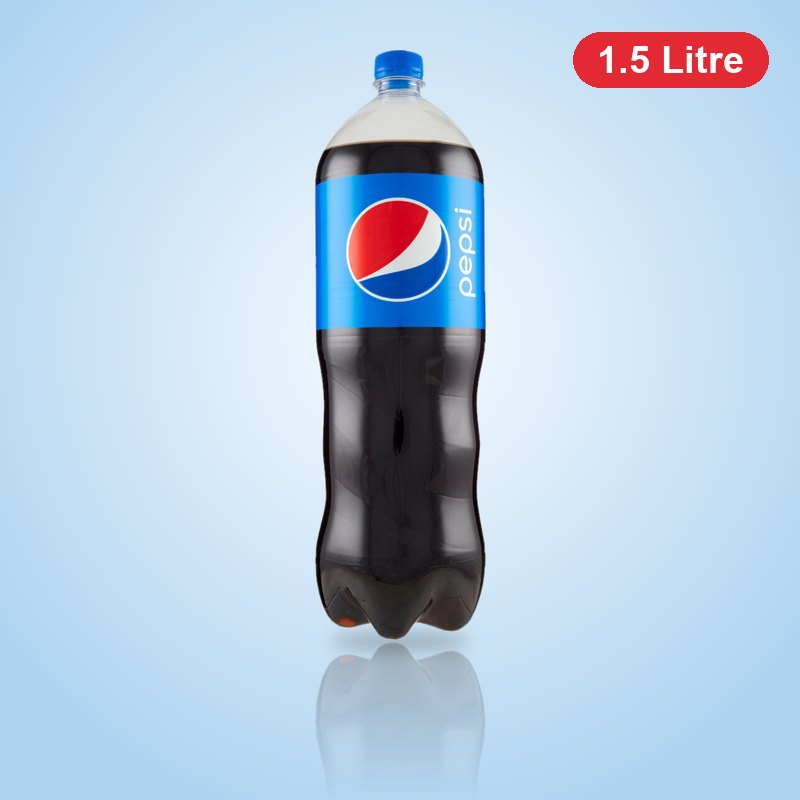
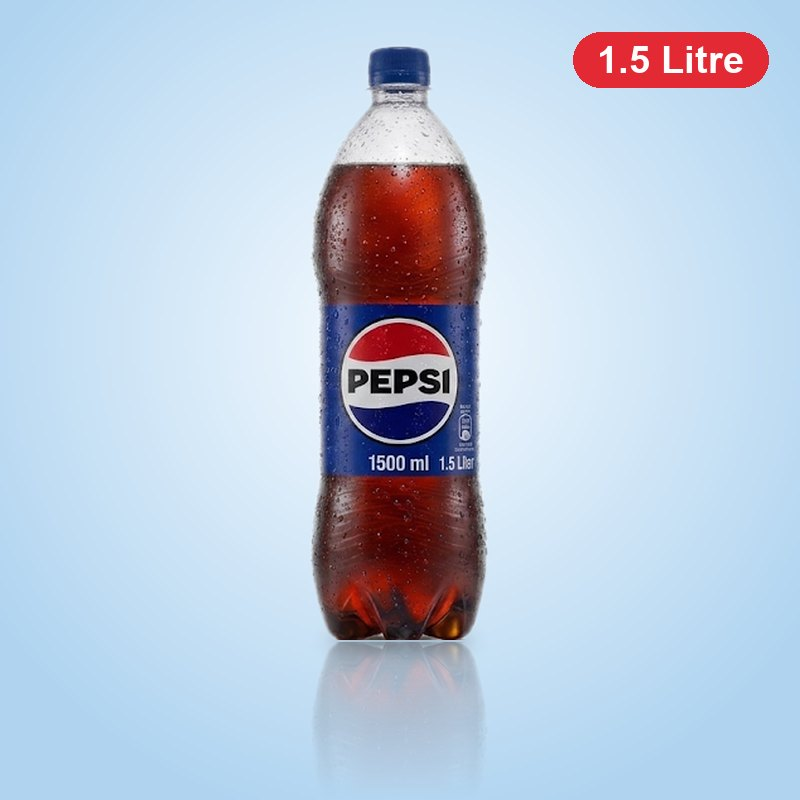
Offline notice, brand order, Pepsi and Dew photos
- Offline banner tells customers they're offline and when they're back; placing an order is
  blocked while offline so it never half-submits
- Shop brand sections follow BRAND_ORDER (Pepsi, 7up, Dew, … water brands last)
- Pepsi (all sizes + TenPacks) and Dew photos from the store owner's studio shots, with SQL to
  link them; Dew gets its own lime studio theme

Changed region(s): [[0.375, 0.0312, 0.625, 0.8438]]

diff --git a/src/pages/ShopPage.jsx b/src/pages/ShopPage.jsx
@@ -5,7 +5,7 @@ import { EmptyState, ErrorState, PageHeader, ProductSkeleton } from '../componen
 import { ProductCard } from '../components/ProductCard'
 import { usePageSeo } from '../hooks/usePageSeo'
 import { categories } from '../lib/catalog'
-import { SORT_OPTIONS } from '../lib/constants'
+import { brandRank, SORT_OPTIONS } from '../lib/constants'
 import { filterProducts, listProducts, sortProducts, subscribeProducts } from '../services/productService'
 
 const emptyFilters = {
@@ -201,7 +201,7 @@ export function ShopPage() {
   }, [attempt])
 
   const brands = useMemo(
-    () => [...new Map(all.map((p) => [String(p.brand || '').trim().toLowerCase(), String(p.brand || '').trim()])).values()].filter(Boolean).sort(),
+    () => [...new Map(all.map((p) => [String(p.brand || '').trim().toLowerCase(), String(p.brand || '').trim()])).values()].filter(Boolean).sort((a, b) => brandRank(a) - brandRank(b) || a.localeCompare(b)),
     [all],
   )
   const sizes = useMemo(() => [...new Set(all.map((p) => p.size).filter(Boolean))], [all])
@@ -215,7 +215,7 @@ export function ShopPage() {
     return sortProducts(filtered, filters.sort)
   }, [all, filters])
 
-  // One section per brand (Pepsi, 7up, Sting…), biggest brands first; the chosen sort applies inside each.
+  // One section per brand in the store's order (BRAND_ORDER); the chosen sort applies inside each.
   const groups = useMemo(() => {
     const map = new Map()
     for (const p of visible) {
@@ -226,7 +226,12 @@ export function ShopPage() {
     }
     return [...map.entries()]
       .map(([key, g]) => ({ ...g, id: `brand-${key.replace(/[^a-z0-9]+/g, '-')}` }))
-      .sort((a, b) => b.items.length - a.items.length || a.brand.localeCompare(b.brand))
+      .sort(
+        (a, b) =>
+          brandRank(a.brand) - brandRank(b.brand) ||
+          b.items.length - a.items.length ||
+          a.brand.localeCompare(b.brand),
+      )
   }, [visible])
 
   return (

diff --git a/src/components/OfflineBanner.jsx b/src/components/OfflineBanner.jsx
@@ -1,0 +1,55 @@
+import { Wifi, WifiOff } from 'lucide-react'
+import { useEffect, useRef, useState } from 'react'
+import { useOnline } from '../hooks/useOnline'
+
+/**
+ * Products, stock and orders all come from the internet, so the store can't work offline.
+ * This tells the customer clearly instead of leaving them with spinners or failed pages,
+ * and says when the connection is back.
+ */
+export function OfflineBanner() {
+  const online = useOnline()
+  const wasOffline = useRef(!online)
+  const [backOnline, setBackOnline] = useState(false)
+
+  useEffect(() => {
+    if (!online) {
+      wasOffline.current = true
+      setBackOnline(false)
+      return
+    }
+    if (!wasOffline.current) return
+    wasOffline.current = false
+    setBackOnline(true)
+    const t = setTimeout(() => setBackOnline(false), 4000)
+    return () => clearTimeout(t)
+  }, [online])
+
+  if (online && !backOnline) return null
+
+  return (
+    <div
+      role="status"
+      aria-live="polite"
+      className="pointer-events-none fixed inset-x-0 bottom-20 z-[70] flex justify-center px-4 md:bottom-6"
+    >
+      <div
+        className={`pointer-events-auto flex max-w-md items-center gap-3 rounded-2xl px-4 py-3 text-sm shadow-lg ${
+          online ? 'bg-emerald-600 text-white' : 'bg-slate-900 text-white'
+        }`}
+      >
+        {online ? <Wifi className="h-5 w-5 shrink-0" /> : <WifiOff className="h-5 w-5 shrink-0" />}
+        {online ? (
+          <p className="font-medium">Wapas online — aap shopping jaari rakh sakte hain.</p>
+        ) : (
+          <div>
+            <p className="font-semibold">Aap offline hain</p>
+            <p className="text-xs text-slate-300">
+              Internet on karein. Aap ka cart mehfooz hai — order internet aane par hi jayega.
+            </p>
+          </div>
+        )}
+      </div>
+    </div>
+  )
+}

diff --git a/src/lib/constants.js b/src/lib/constants.js
@@ -51,6 +51,21 @@ export const PROMO_CODES = {
   WELCOME10: { type: 'percent', value: 10, label: '10% off' },
 }
 
+// Order of brand sections on the Shop page. Brands not listed here go after the soft drinks
+// (before the water brands at the end), largest first.
+export const BRAND_ORDER = ['Pepsi', '7up', 'Dew', 'Mirinda', 'Sting', 'Gormy Cola', 'Quice', 'Slice', 'Bravo']
+export const BRAND_ORDER_LAST = ['Aqua', 'Aquafina']
+
+/** Sort key for a brand name: listed brands in order, unknown ones next, water brands last. */
+export function brandRank(brand) {
+  const key = String(brand || '').trim().toLowerCase()
+  const first = BRAND_ORDER.findIndex((b) => b.toLowerCase() === key)
+  if (first !== -1) return first
+  const last = BRAND_ORDER_LAST.findIndex((b) => b.toLowerCase() === key)
+  if (last !== -1) return 1000 + last
+  return 500
+}
+
 export const DELIVERY_FEE = 149
 export const FREE_DELIVERY_MIN = 2500
 

diff --git a/src/hooks/useOnline.js b/src/hooks/useOnline.js
@@ -1,0 +1,17 @@
+import { useEffect, useState } from 'react'
+
+/** True while the browser has a network connection; updates on `online` / `offline` events. */
+export function useOnline() {
+  const [online, setOnline] = useState(() => (typeof navigator === 'undefined' ? true : navigator.onLine))
+  useEffect(() => {
+    const up = () => setOnline(true)
+    const down = () => setOnline(false)
+    window.addEventListener('online', up)
+    window.addEventListener('offline', down)
+    return () => {
+      window.removeEventListener('online', up)
+      window.removeEventListener('offline', down)
+    }
+  }, [])
+  return online
+}

diff --git a/src/App.jsx b/src/App.jsx
@@ -1,6 +1,7 @@
 import { lazy, Suspense } from 'react'
 import { BrowserRouter, Navigate, Route, Routes } from 'react-router-dom'
 import { Spinner } from './components/Feedback'
+import { OfflineBanner } from './components/OfflineBanner'
 import { RequireAdmin, RequireUser } from './components/Guards'
 import { HomePage } from './pages/HomePage'
 import { AdminLayout } from './layouts/AdminLayout'
@@ -116,6 +117,7 @@ export default function App() {
         <Route path="*" element={<Storefront><NotFoundPage /></Storefront>} />
       </Routes>
       </Suspense>
+      <OfflineBanner />
     </BrowserRouter>
   )
 }

diff --git a/src/pages/PaymentPage.jsx b/src/pages/PaymentPage.jsx
@@ -134,6 +134,10 @@ export function PaymentPage() {
   }
 
   const placeOrder = async () => {
+    if (!navigator.onLine) {
+      push('Aap offline hain. Internet on karke dobara "Place order" dabayein — aap ka cart mehfooz hai.', 'error')
+      return
+    }
     if (summary.unavailable.length) {
       const names = summary.unavailable.map((i) => i.name).join(', ')
       push(`Not enough stock for ${names}. Update your cart to continue.`, 'error')

diff --git a/scripts/make-product-photos.py b/scripts/make-product-photos.py
@@ -27,13 +27,15 @@ FONT = 'C:/Windows/Fonts/arialbd.ttf'
 #   crop   optional (left, top, right, bottom) fractions to trim the photo first
 PRODUCTS = {
     # Pepsi
-    'pepsi-345ml': dict(src='pepsi/can-330ml.jpg', label='345 ml', share=0.62, mode='can'),
-    'pepsi-500ml': dict(src='pepsi/bottle-small.jpg', label='500 ml', share=0.70, tol=40),
-    'pepsi-1l': dict(src='pepsi/bottle-1l.jpg', label='1 Litre', share=0.76, tol=22, crop=(0, 0, 0.94, 1), erode=9),
-    'pepsi-1500ml': dict(src='pepsi/bottle-2l.jpg', label='1.5 Litre', share=0.82, tol=40),
-    'pepsi-2500ml': dict(src='pepsi/bottle-2-5l.jpg', label='2.5 Litre', share=0.86, tol=40),
-    'pepsi-tenpack': dict(src='PACK', pack_of='pepsi/bottle-small.jpg', label='10 × 250 ml', share=0.58, tol=40),
-    'pepsi-tenpack-diet': dict(src='pepsi/pack-diet.jpg', label='Diet · 10 × 250 ml', share=0.62, tol=40),
+    # 345ml–2.5L: studio photos supplied by the store owner, cropped above their floor reflection.
+    'pepsi-345ml': dict(src='pepsi/user-345ml.png', label='345 ml', share=0.62, tol=18, crop=(420 / 1024, 15 / 572, 620 / 1024, 502 / 572)),
+    'pepsi-500ml': dict(src='pepsi/user-500ml.png', label='500 ml', share=0.68, tol=18, crop=(420 / 1024, 15 / 572, 620 / 1024, 502 / 572)),
+    'pepsi-1l': dict(src='pepsi/user-1l.png', label='1 Litre', share=0.76, tol=18, crop=(420 / 1024, 15 / 572, 620 / 1024, 502 / 572)),
+    'pepsi-1500ml': dict(src='pepsi/user-1500ml.png', label='1.5 Litre', share=0.83, tol=18, crop=(420 / 1024, 15 / 572, 620 / 1024, 502 / 572)),
+    'pepsi-2500ml': dict(src='pepsi/user-2500ml.png', label='2.5 Litre', share=0.9, tol=18, crop=(420 / 1024, 15 / 572, 620 / 1024, 502 / 572)),
+    # TenPacks: can studio shots supplied by the store owner, used as-is (centre square).
+    'pepsi-tenpack': dict(src='pepsi/user-can.png', label='10 × 250 ml', mode='photo'),
+    'pepsi-tenpack-diet': dict(src='pepsi/user-can-diet.png', label='Diet · 10 × 250 ml', mode='photo'),
     # 7up
     # 345ml: finished studio shot supplied by the store owner, used as-is (centre square).
     '7up-345ml': dict(src='7up/can-user.png', label='345 ml', mode='photo'),
@@ -42,6 +44,13 @@ PRODUCTS = {
     '7up-1l': dict(src='7up/bottle-1l-user.png', label='1 Litre', share=0.76, tol=18, crop=(420 / 1024, 20 / 572, 620 / 1024, 502 / 572)),
     '7up-1500ml': dict(src='7up/bottle-1l-user.png', label='1.5 Litre', share=0.84, tol=18, crop=(420 / 1024, 20 / 572, 620 / 1024, 502 / 572)),
     '7up-2500ml': dict(src='7up/bottle-2500ml-user.png', label='2.5 Litre', share=0.9, tol=18, crop=(425 / 1024, 20 / 572, 620 / 1024, 507 / 572)),
+    # Dew
+    # All sizes: studio photos supplied by the store owner, cropped above their floor reflection.
+    'dew-345ml': dict(src='dew/user-345ml.png', label='345 ml', share=0.62, tol=18, crop=(420 / 1024, 15 / 572, 620 / 1024, 502 / 572)),
+    'dew-500ml': dict(src='dew/user-500ml.png', label='500 ml', share=0.68, tol=18, crop=(420 / 1024, 15 / 572, 620 / 1024, 502 / 572)),
+    'dew-1l': dict(src='dew/user-1l.png', label='1 Litre', share=0.76, tol=18, crop=(420 / 1024, 15 / 572, 620 / 1024, 502 / 572)),
+    'dew-1500ml': dict(src='dew/user-1500ml.png', label='1.5 Litre', share=0.83, tol=18, crop=(420 / 1024, 15 / 572, 620 / 1024, 502 / 572)),
+    'dew-2500ml': dict(src='dew/user-2500ml.png', label='2.5 Litre', share=0.9, tol=18, crop=(420 / 1024, 15 / 572, 620 / 1024, 502 / 572)),
     # Mirinda
     # All Mirinda sizes: studio shots (bottle + glass) supplied by the store owner; square around both.
     'mirinda-345ml': dict(src='mirinda/bottle-345ml-user.png', label='345 ml', mode='photo', crop=(448 / 1024, 0, 1020 / 1024, 1)),
@@ -120,6 +129,7 @@ def pack_of(bottle, count=5):
 THEMES = {
     'pepsi': dict(centre=(246, 251, 255), edge=(176, 212, 240), fruit=False),
     '7up': dict(centre=(244, 252, 247), edge=(178, 222, 198), fruit=True),
+    'dew': dict(centre=(250, 253, 240), edge=(205, 226, 160), fruit=False),
 }
 
 
@@ -242,7 +252,7 @@ def main():
             left, top = (photo.width - side) // 2, (photo.height - side) // 2
             img = photo.crop((left, top, left + side, top + side)).resize((SIZE, SIZE), Image.LANCZOS).convert('RGBA')
         else:
-            theme = THEMES['7up' if name.startswith('7up') else 'pepsi']
+            theme = THEMES[next((t for t in THEMES if name.startswith(t + '-')), 'pepsi')]
             img = place(build(src, spec), spec['share'], theme)
         badge(img, spec['label'])
         img.convert('RGB').save(OUT / f'{name}.jpg', quality=86, optimize=True, progressive=True)
